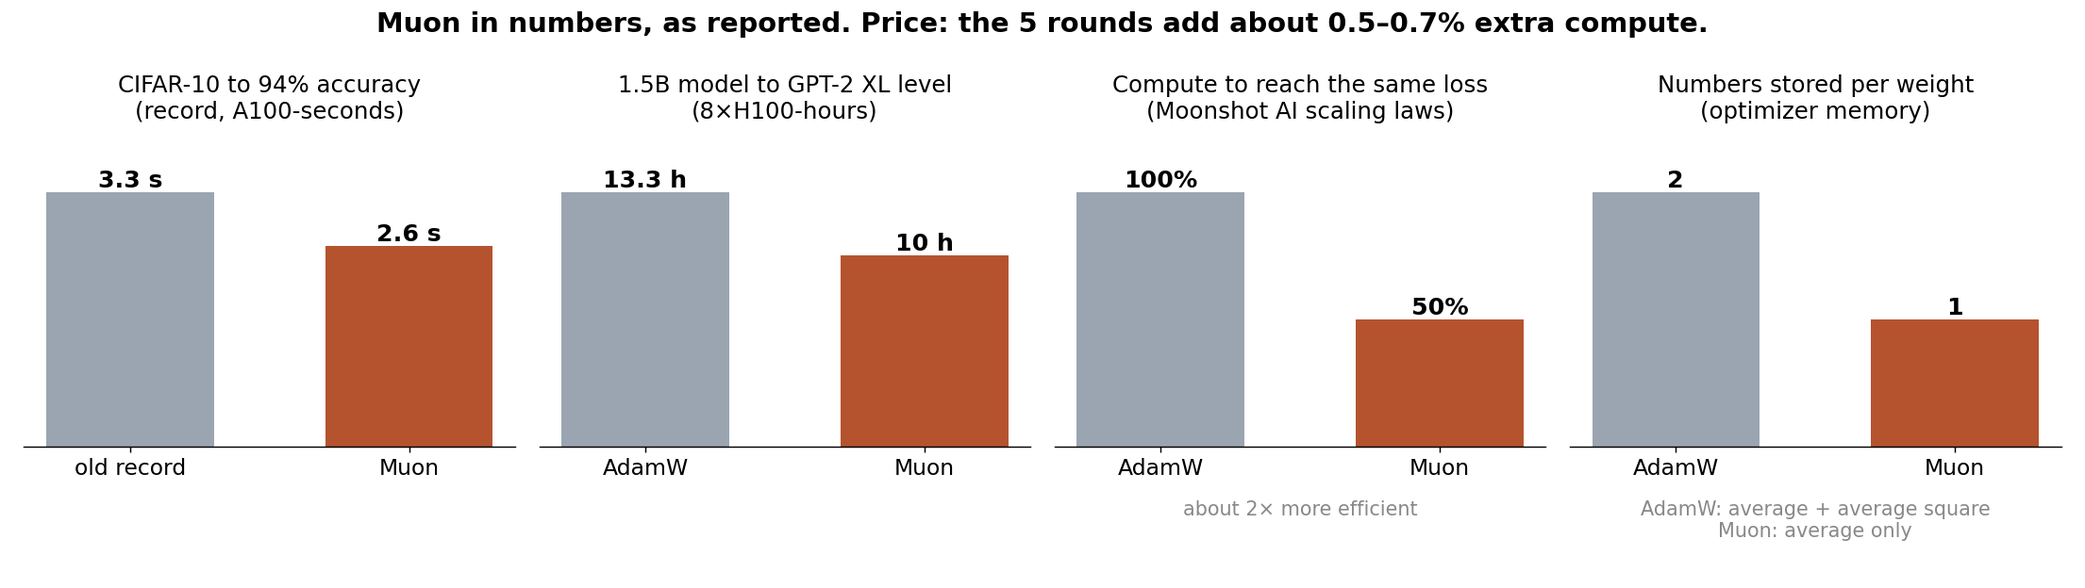
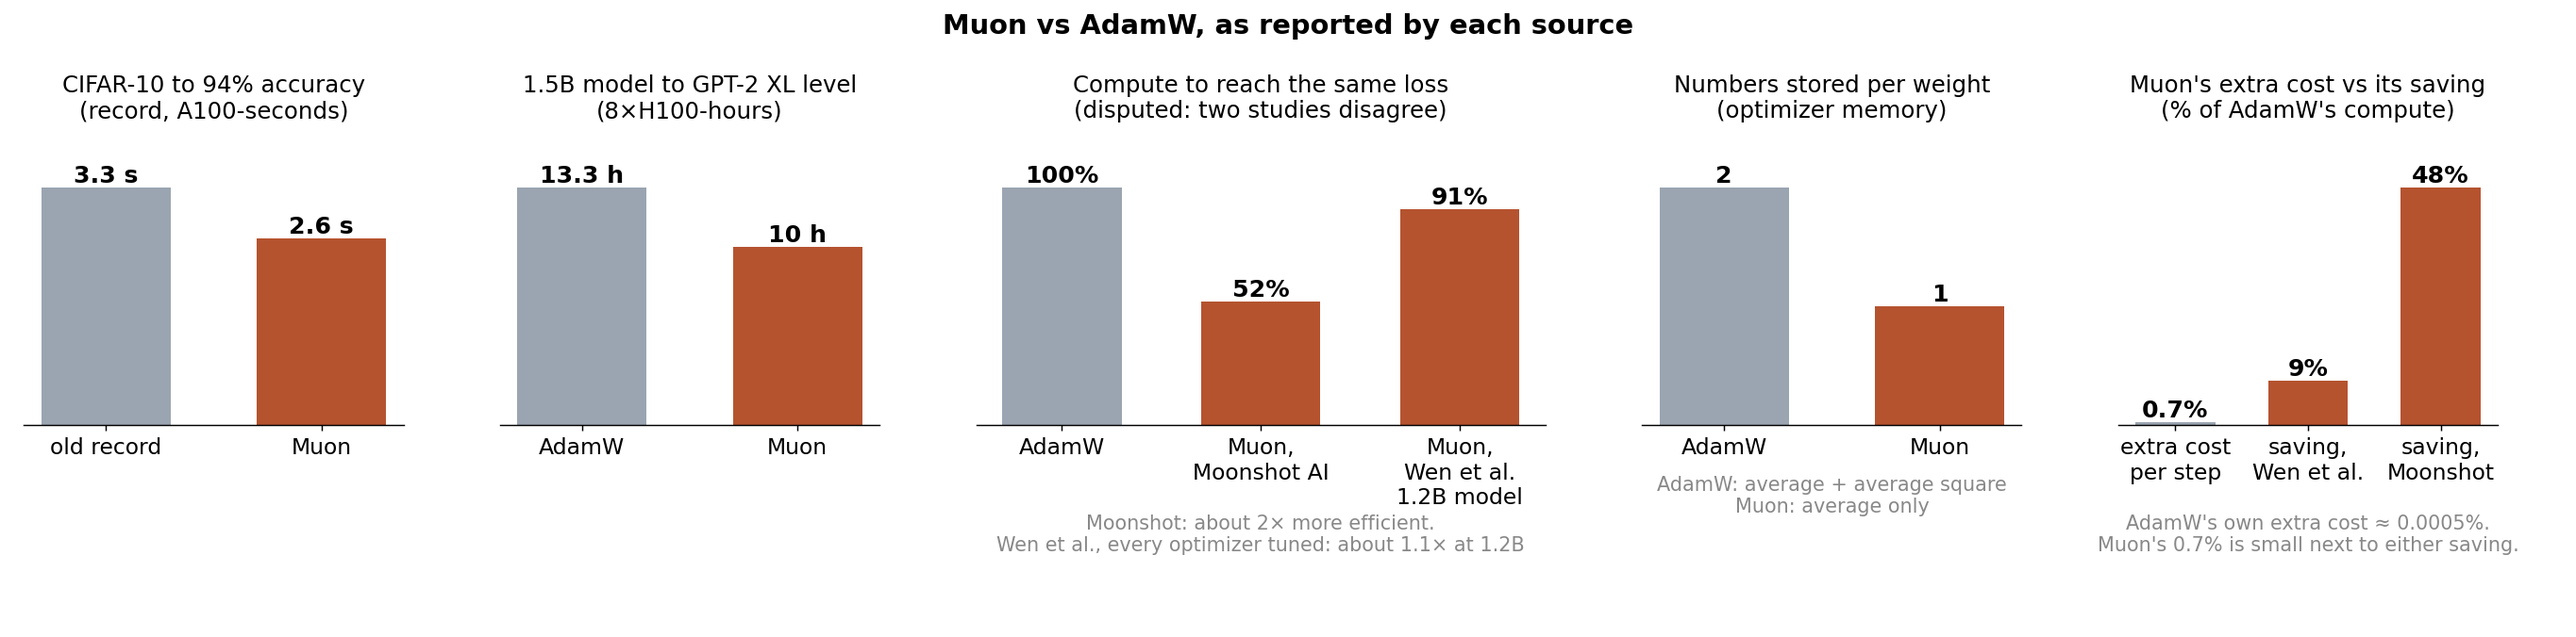
Why Muon helps, history, disputed 2x claim, and the reasons behind step 0

diff --git a/teach_why_size.py b/teach_why_size.py
@@ -1,0 +1,73 @@
+"""images/step0_why.png: what the size of G is, why it is always at least the biggest strength, and its price."""
+import numpy as np
+import matplotlib
+matplotlib.use("Agg")
+import matplotlib.pyplot as plt
+
+A_, B_, C_ = 3.4445, -4.775, 2.0315
+f = lambda s: A_ * s + B_ * s**3 + C_ * s**5
+INK, MUTE, BIG, WEAK = "#222222", "#888888", "#3a6489", "#b5532f"
+plt.rcParams.update({"font.size": 13, "axes.titlesize": 14})
+
+t = np.radians(30)
+G = np.array([[np.cos(t), -np.sin(t)], [np.sin(t), np.cos(t)]]) @ np.diag([1.0, 0.2])
+entries2 = (G.ravel() ** 2)
+strengths2 = np.linalg.svd(G, compute_uv=False) ** 2
+assert np.isclose(entries2.sum(), strengths2.sum())
+
+fig, ax = plt.subplots(1, 3, figsize=(19, 6), dpi=130)
+
+# (a) two ways to add up to the same 1.040
+a = ax[0]
+for x, parts, labels, cols in [
+    (0, entries2, ["0.866²", "0.100²", "0.500²", "0.173²"], ["#c9c2b8", "#b8b0a5", "#d8d1c7", "#a9a196"]),
+    (1, strengths2, ["1.00²  (strong)", "0.20²  (weak)"], [BIG, WEAK]),
+]:
+    bottom = 0
+    for p, lab, c in zip(parts, labels, cols):
+        a.bar(x, p, bottom=bottom, color=c, width=0.6, edgecolor="white")
+        if p > 0.05:
+            a.text(x, bottom + p / 2, f"{lab}\n= {p:.3f}", ha="center", va="center", fontsize=12,
+                   color="white" if c in (BIG, WEAK) else INK)
+        bottom += p
+    a.text(x, bottom + 0.03, f"total {bottom:.3f}", ha="center", va="bottom", fontweight="bold")
+a.text(0.5, 1.16, "thin slices: 0.100² = 0.010 and 0.173² = 0.030 on the left,\nthe weak 0.20² = 0.040 (red) on the right", ha="center", fontsize=11, color=MUTE)
+a.set_xticks([0, 1], ["the 4 entries of G,\nsquared", "the 2 strengths of G,\nsquared"])
+a.set_ylim(0, 1.3); a.set_yticks([])
+for s in ["top", "right", "left"]: a.spines[s].set_visible(False)
+a.set_title("Same total: size² = sum of entries² = sum of strengths²")
+
+# (b) biggest strength after dividing by the size
+b = ax[1]
+cases = [("our 2×2\n(1, 0.2)", np.array([1.0, 0.2])),
+         ("8×8 from section 5\n(1, 0.6, … 0.01)", np.array([1, .6, .3, .15, .08, .04, .02, .01])),
+         ("768×768,\nall 768 strengths 1", np.ones(768))]
+vals = [1 / np.sqrt((s ** 2).sum()) for _, s in cases]
+bars = b.bar([c[0] for c in cases], vals, color=BIG, width=0.6)
+for bar, v, (_, s) in zip(bars, vals, cases):
+    b.text(bar.get_x() + bar.get_width() / 2, v + 0.02, f"{v:.3f}\n(size {np.sqrt((s**2).sum()):.3g})",
+           ha="center", va="bottom", fontweight="bold")
+b.axhline(1, ls="--", color=MUTE, lw=1)
+b.text(2.45, 1.02, "1", color=MUTE, ha="right")
+b.set_ylim(0, 1.3); b.set_yticks([])
+for s in ["top", "right", "left"]: b.spines[s].set_visible(False)
+b.set_title("Biggest strength after ÷ size: never above 1,\nbut far below 1 when many strengths are big")
+
+# (c) the 768 case: the quintic lifts 0.036 in 3 rounds
+c = ax[2]
+x = vals[2]; path = [x]
+for _ in range(5):
+    x = f(x); path.append(x)
+c.plot(range(6), path, "o-", color=BIG, lw=2.5, ms=9)
+for k, v in enumerate(path):
+    below = k == 4
+    c.text(k + 0.12, v - 0.09 if below else v + 0.06, f"{v:.3f}", ha="left", fontsize=12, fontweight="bold", color=BIG)
+c.axhline(1, ls="--", color=MUTE, lw=1)
+c.set_xticks(range(6)); c.set_xlim(-0.3, 5.6); c.set_xlabel("round"); c.set_ylabel("strength")
+c.set_ylim(0, 1.35)
+c.set_title("The price is paid back: the quintic lifts\n0.036 to about 1 in 3 rounds")
+
+fig.suptitle("Step 0, the reasons. The size uses only the entries (cheap), yet it equals √(s₁² + s₂² + …), so it is never smaller than the biggest strength.",
+             fontsize=14)
+fig.tight_layout(rect=[0, 0, 1, 0.94]); fig.savefig("images/step0_why.png"); plt.close(fig)
+print("biggest after ÷ size:", [round(v, 3) for v in vals], "768 path:", [round(v, 3) for v in path])

diff --git a/intro_plots.py b/intro_plots.py
@@ -30,11 +30,11 @@ ax.set_title("From a 1933 matrix trick to trillion-parameter models", fontsize=1
 fig.tight_layout(); fig.savefig("images/muon_timeline.png"); plt.close(fig)
 
 # ---------- numbers ----------
-fig, ax = plt.subplots(1, 4, figsize=(17, 4.8), dpi=130)
+fig, ax = plt.subplots(1, 5, figsize=(21, 5.2), dpi=130, gridspec_kw={"width_ratios": [1, 1, 1.5, 1, 1]})
 
 
 def pair(a, title, vals, unit, fmt="{:g}", names=("AdamW", "Muon")):
-    bars = a.bar(list(names), vals, color=[ADAM, MUON], width=0.6)
+    bars = a.bar(list(names), vals, color=[ADAM] + [MUON] * (len(vals) - 1), width=0.6)
     for b, v in zip(bars, vals):
         a.text(b.get_x() + b.get_width() / 2, v, fmt.format(v) + unit, ha="center", va="bottom", fontsize=14, fontweight="bold")
     a.set_ylim(0, max(vals) * 1.25); a.set_yticks([])
@@ -44,10 +44,14 @@ def pair(a, title, vals, unit, fmt="{:g}", names=("AdamW", "Muon")):
 
 pair(ax[0], "CIFAR-10 to 94% accuracy\n(record, A100-seconds)", [3.3, 2.6], " s", names=("old record", "Muon"))
 pair(ax[1], "1.5B model to GPT-2 XL level\n(8×H100-hours)", [13.3, 10], " h")
-pair(ax[2], "Compute to reach the same loss\n(Moonshot AI scaling laws)", [1.0, 0.5], "", "{:.0%}")
+pair(ax[2], "Compute to reach the same loss\n(disputed: two studies disagree)", [1.0, 0.52, 1 / 1.1], "", "{:.0%}",
+     names=("AdamW", "Muon,\nMoonshot AI", "Muon,\nWen et al.\n1.2B model"))
 pair(ax[3], "Numbers stored per weight\n(optimizer memory)", [2, 1], "")
+pair(ax[4], "Muon's extra cost vs its saving\n(% of AdamW's compute)", [0.7, 9, 48], "%", "{:g}",
+     names=("extra cost\nper step", "saving,\nWen et al.", "saving,\nMoonshot"))
 ax[3].text(0.5, -0.17, "AdamW: average + average square\nMuon: average only", transform=ax[3].transAxes, ha="center", va="top", fontsize=11.5, color=MUTE)
-ax[2].text(0.5, -0.17, "about 2× more efficient", transform=ax[2].transAxes, ha="center", va="top", fontsize=11.5, color=MUTE)
-fig.suptitle("Muon in numbers, as reported. Price: the 5 rounds add about 0.5–0.7% extra compute.", fontsize=16, fontweight="bold")
+ax[2].text(0.5, -0.3, "Moonshot: about 2× more efficient.\nWen et al., every optimizer tuned: about 1.1× at 1.2B", transform=ax[2].transAxes, ha="center", va="top", fontsize=11.5, color=MUTE)
+ax[4].text(0.5, -0.3, "AdamW's own extra cost ≈ 0.0005%.\nMuon's 0.7% is small next to either saving.", transform=ax[4].transAxes, ha="center", va="top", fontsize=11.5, color=MUTE)
+fig.suptitle("Muon vs AdamW, as reported by each source", fontsize=16, fontweight="bold")
 fig.tight_layout(); fig.savefig("images/muon_numbers.png"); plt.close(fig)
 print("saved images/muon_timeline.png images/muon_numbers.png")

diff --git a/teach.py b/teach.py
@@ -70,7 +70,7 @@ ax[1].text(0.5, 0.72, "multiply every point\nby the update matrix G", ha="center
 ax[1].text(0.5, 0.45, "G =\n" + fmt(G), ha="center", va="center", family="monospace", fontsize=14)
 ax[1].annotate("", xy=(0.95, 0.2), xytext=(0.05, 0.2), arrowprops=dict(arrowstyle="-|>", lw=3, color=INK), xycoords="axes fraction")
 draw_shape(ax[2], G, "After: an ellipse")
-ax[2].text(0, -1.25, "blue = strong direction, rust = weak direction", ha="center", color=MUTE)
+ax[2].text(0, -1.25, "blue = strong direction, red = weak direction", ha="center", color=MUTE)
 fig.suptitle("Step 1. A matrix stretches space. The two arrow lengths are its strengths (singular values): 1.00 and 0.20.", fontsize=15)
 fig.tight_layout(); fig.savefig("images/step1.png"); plt.close(fig)
 

diff --git a/README.md b/README.md
@@ -14,13 +14,21 @@ Some facts:
 
 - **The name is an acronym.** Muon stands for MomentUm Orthogonalized by Newton–Schulz.
 - **The math is 91 years old.** Schulz published the core trick in 1933, as a way to invert a matrix using only multiplications. Muon uses a tuned version of it.
-- **It started as a speed contest.** In October 2024 Muon set a record in the NanoGPT speedrun, a public race to train a small GPT-2 model to a fixed quality as fast as possible. That training became 1.35 times faster.
+- **It started as a speed contest.** In October 2024 Muon set a record in the Modded NanoGPT speedrun, a public race to train a small GPT-2 model to a fixed quality as fast as possible. That training became 1.35 times faster.
 - **It now trains giant models.** Moonshot AI trained Moonlight (16B parameters, 5.7 trillion tokens) with Muon in February 2025. Kimi K2, with 1 trillion parameters and 15.5 trillion tokens, was trained with MuonClip, a Muon variant, in July 2025.
-- **It is cheap.** Muon remembers 1 number per weight, AdamW remembers 2. The 5 rounds of the formula add about 0.7% compute in the NanoGPT speedrun. For a model the size of Llama 405B the estimate is 0.5%.
+- **It uses less memory than AdamW.** Muon remembers 1 number per weight, AdamW remembers 2.
+- **It costs a little more compute per step than AdamW.** Each training step already does about 6 operations per weight per token for the forward and backward pass. With 524,288 tokens per step in the NanoGPT speedrun, that is about 3 million operations per weight. AdamW adds about 15 per weight, so its extra cost is close to 0%. Muon's 5 rounds add about 0.7%. For a model the size of Llama 405B the estimate is 0.5%. So Muon pays off whenever it needs at least 0.7% fewer steps than AdamW. Every measurement below says it needs more than that.
 
-![Muon in numbers: CIFAR-10 record 3.3 to 2.6 s, 1.5B model 13.3 to 10 h, about half the compute in Moonshot's scaling laws, half the optimizer memory](images/muon_numbers.png)
+![Muon vs AdamW: CIFAR-10 record 3.3 to 2.6 s, 1.5B model 13.3 to 10 h, compute to the same loss 52% (Moonshot) or 91% (Wen et al.), half the optimizer memory, 0.7% extra cost vs 9–48% saving](images/muon_numbers.png)
 
-The first two numbers come from Keller Jordan's post. The third is from Moonshot AI's scaling experiments, where Muon reached the same loss with about half the compute of AdamW. All are reported by their authors, not measured here.
+The first two numbers come from Keller Jordan's post. All numbers are reported by their authors, not measured here.
+
+How much compute Muon saves is disputed:
+
+- **Moonshot AI says about 2×.** They fit scaling curves on models from 0.4B to 1.5B parameters. Muon needed about 52% of AdamW's compute to reach the same loss. AdamW's settings were found by grid search. Muon reused AdamW's settings.
+- **Wen et al. at Stanford say much less.** They compared 10 optimizers on models from 0.1B to 1.2B parameters, and tuned every optimizer's settings separately. The best matrix-based optimizers, Muon among them, were about 1.3–1.4× faster than AdamW at 0.1B, and only about 1.1× faster at 1.2B. They found that many earlier speedups came from a weak AdamW baseline. In one example, tuning only AdamW's learning rate in a standard recipe made it about 2× faster on a 0.1B model.
+
+Both studies agree that Muon beats AdamW. They disagree on how much, and the second one finds the gain shrinking as models grow. Which number holds for very large models is not settled. Kimi K2, the largest Muon-trained model, has no AdamW run of the same size to compare against.
 
 This post explains what the formula does, using one small 2×2 matrix and pictures. Every number in the pictures from section 1 on comes from the scripts in this repo.
 
@@ -32,7 +40,7 @@ A matrix can be pictured by what it does to a circle. Multiply every point of a 
 
 ![A circle multiplied by G becomes an ellipse with strengths 1.00 and 0.20](images/step1.png)
 
-Here G stretches one direction by 1.00 and the other by 0.20. A plain update with this G moves the weights 5 times more along the blue arrow than along the rust one.
+Here G stretches one direction by 1.00 and the other by 0.20. A plain update with this G moves the weights 5 times more along the blue arrow than along the red one.
 
 The arrows are not the x and y axes. The long arrow is the longest radius of the ellipse, and the short arrow is the shortest. Every other radius is somewhere in between. The two arrows are always at 90° to each other. Our G stretches first and then turns everything by 30°, so its arrows point diagonally. Another matrix puts them at another angle.
 
@@ -42,19 +50,76 @@ A 2×2 matrix has 2 strengths. A 3×3 matrix turns a ball into an egg shape with
 
 In real networks this imbalance is far worse. Muon's author reports that updates for transformer weight matrices are dominated by a few directions, and the rest are almost zero. Muon's goal is to make every strength equal to 1. The arrows keep their directions. Only their lengths change. The ellipse becomes a circle, so the update moves every direction by a similar amount.
 
-## 2. Step 0: divide G by its size
+### Why this helps
 
-The formula only works when every strength starts between 0 and 1. A real gradient can have strengths of 0.001 or 40. So Muon first divides G by one number, its size:
+A plain update spends almost its whole step on the few big directions. The small directions barely move, step after step. Muon's author guesses that some of these small directions carry rare signals that still matter for learning. Setting every strength to 1 gives them the same share of the step as the big ones. This is his explanation of why training gets faster, not a proof. The proof he offers is the speed records.
+
+### Why it took until 2024
+
+The idea of setting every strength to 1 is older than Muon:
+
+- **2015–2016.** Carlson and colleagues proposed *stochastic spectral descent*, which did exactly this with an exact SVD. Their methods had no momentum. Muon's author found momentum necessary.
+- **2018.** The Shampoo optimizer came out. In 2024 Bernstein and Newhouse showed that Shampoo, with its running averages removed, gives this same update.
+- **2022.** Tuddenham and colleagues orthogonalized gradients with an SVD and added momentum afterwards. Their best setup lost to well-tuned SGD with momentum, and the paper was mostly overlooked.
+
+Three things changed with Muon:
+
+1. **Speed.** An exact SVD of every weight matrix at every step is far too slow on a GPU. Newton–Schulz uses only matrix multiplications, and it stays stable in bfloat16, the fast low-precision number format of modern GPUs.
+2. **Order.** Muon averages the gradients first (momentum) and then sets the strengths to 1. Muon's author found that this works better than the reverse.
+3. **A fair race.** Many optimizer papers beat an AdamW that was not tuned well. The NanoGPT speedrun is a public race against a heavily tuned baseline, with a fixed target and a timer. Muon won there, which made people believe it.
+
+## 2. The plan, and step 0: divide G by its size
+
+### What Muon wants
+
+Every matrix can be written as three moves: a turn, a stretch, and another turn.
+
+```
+G     =  U · S · Vᵀ          Vᵀ turns, S stretches by the strengths, U turns
+goal  =  U · Vᵀ              the same two turns, with the stretch removed
+```
+
+Our G is built exactly this way: a stretch by 1.00 and 0.20, then a 30° turn. Removing the stretch means setting every strength to 1. In the picture, the ellipse becomes a circle again, and the arrows keep their directions.
+
+### Why not compute U, S and V directly
+
+The textbook tool that finds U, S and V is called the singular value decomposition (SVD). Muon's author tried it: it is far too slow to run on every weight matrix at every training step. GPUs are fastest at one job, multiplying matrices. So the question becomes: can multiplications alone change the strengths, without touching the arrows?
+
+They can. X·Xᵀ·X has the same arrows as X, with every strength cubed. Section 3 shows why. Adding a few such terms gives a curve applied to every strength at once:
+
+```
+f(s) = 3.4445·s − 4.775·s³ + 2.0315·s⁵
+```
+
+The plan is to pick a curve that pushes every strength toward 1, and to apply it 5 times.
+
+### Why the strengths must start at 1 or less
+
+A curve with s⁵ in it shoots up for big inputs. It pulls toward 1 only for inputs from 0 to about 1.2. Put 1.5 in and 4.48 comes out. Put 3 in and 375 comes out. Real gradients can have strengths of 0.001 or 40. So before the rounds, every strength must be moved into the safe range.
+
+![Dividing G by its size, and why: the curve explodes for inputs above about 1.2](images/step0_size.png)
+
+### Why divide by the size
+
+The ideal divisor would be the biggest strength. The biggest strength would then become exactly 1. But finding the biggest strength needs the SVD again. So Muon divides by a number it can get from the entries alone, the size:
 
 1. Square every entry of G and add them up. Here 0.750 + 0.010 + 0.250 + 0.030 = 1.040.
 2. Take the square root. √1.040 = 1.020.
 3. Divide every entry by 1.020.
 
-Every strength gets divided by the same 1.020. So 1.00 becomes 0.981 and 0.20 becomes 0.196. This size is always at least the biggest strength, so after dividing, every strength is 1 or less.
+Here is why this works. The sum of the squared entries always equals the sum of the squared strengths:
 
-![Dividing G by its size, and why: the curve explodes for inputs above about 1.2](images/step0_size.png)
+```
+size² = (sum of every entry²) = s₁² + s₂² + s₃² + …
+```
 
-The right panel shows why this matters. Put a strength of 1.5 into the formula and 4.48 comes out. A strength of 3 gives 375. The rounds would blow up instead of pulling toward 1.
+For our G: 1.00² + 0.20² = 1.040, the same total as the 4 entries. The reason is that turning never changes lengths, so only the stretch counts. The size² contains the biggest strength squared plus other terms that are never negative. So the size is never smaller than the biggest strength. After dividing, every strength is 1 or less. For our G, 1.00 becomes 0.981 and 0.20 becomes 0.196.
+
+![Size² equals the sum of squared strengths; the biggest strength after dividing; the 768 case lifted in 3 rounds](images/step0_why.png)
+
+### The price
+
+When many strengths are big, the size is much bigger than the biggest strength. Take a 768×768 matrix with all 768 strengths equal to 1. Its size is √768 = 27.7, so every strength becomes 0.036. That is far below 1, and it is why the curve's start matters. Near 0 it multiplies by 3.4445, so 0.036 becomes 0.124, then 0.418, then 1.117. Three rounds pay the price back.
 
 ## 3. Step 1: one round is one curve
 
@@ -163,6 +228,7 @@ Real Muon runs the same loop in bfloat16 on the GPU.
 pip install -r requirements.txt
 python3 muon_orth.py      # the 8×8 table above
 python3 teach_size.py     # images/step0_size.png
+python3 teach_why_size.py  # images/step0_why.png
 python3 teach.py          # images/step1.png … step4.png
 python3 teach_directions.py  # images/step1b_directions.png
 python3 plot_poly.py      # images/poly_plot.png
@@ -173,5 +239,7 @@ python3 intro_plots.py    # images/muon_timeline.png, muon_numbers.png
 
 - Muon, its coefficients 3.4445, −4.775, 2.0315, the speedrun, CIFAR-10, 1.5B-model and compute-overhead numbers: Keller Jordan, [Muon: An optimizer for hidden layers in neural networks](https://kellerjordan.github.io/posts/muon/) (December 2024).
 - Moonlight and the 2× compute result: Moonshot AI, [Muon is Scalable for LLM Training](https://arxiv.org/abs/2502.16982) (February 2025).
+- Earlier work: Carlson et al., stochastic spectral descent (2015–2016); Gupta, Koren, Singer, [Shampoo](https://arxiv.org/abs/1802.09568) (2018); Tuddenham, Prügel-Bennett, Hare, [Orthogonalising gradients to speed up neural network optimisation](https://arxiv.org/abs/2202.07052) (2022); Bernstein, Newhouse, [Old Optimizer, New Norm: An Anthology](https://arxiv.org/abs/2409.20325) (2024).
+- The smaller speedup over well-tuned AdamW: Kaiyue Wen, David Hall, Tengyu Ma, Percy Liang, [Fantastic Pretraining Optimizers and Where to Find Them](https://arxiv.org/abs/2509.02046) (September 2025, ICLR 2026).
 - Kimi K2 and MuonClip: Moonshot AI, Kimi K2 technical report (July 2025), as covered by [HPCwire](https://www.hpcwire.com/aiwire/2025/07/14/chinas-moonshot-ai-releases-trillion-parameter-model-kimi-k2/).
 - Schulz, *Iterative Berechnung der reziproken Matrix*, Zeitschrift für Angewandte Mathematik und Mechanik 13 (1933), 57–59.
